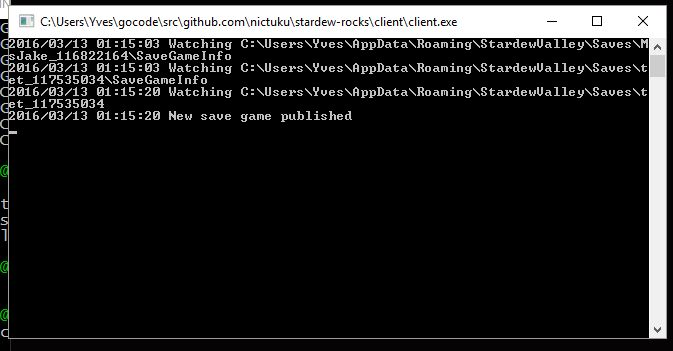
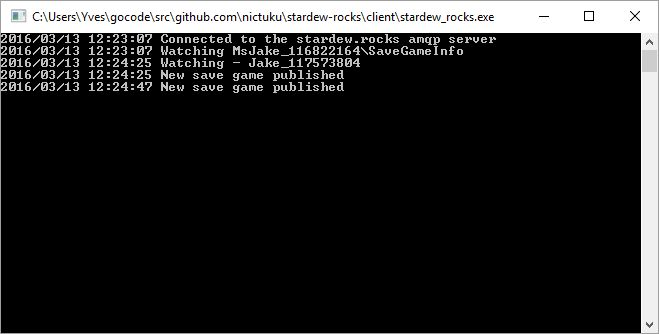
Updated README and screenshot

Changed region(s): [[0.0, 0.0, 1.0, 1.0]]

diff --git a/README.md b/README.md
@@ -1,6 +1,6 @@
 # stardew-rocks
 
-This provides a client for Windows sends Stardew Valley saved games to a fanout queue. 
+Stardew Rocks is a tool for Stardew Valley that sends saved games to a distributed queue of mod developers! 
 
 Developers can watch that queue and do cool things with the saved files.
 
@@ -9,24 +9,37 @@ For example:
 - analyze the most efficient players
 - host a Stardew Valley tourney: see who get a certain amount of resources faster without cheating!
 
-To give it a try, see the pre-compiled Windows amd64 binary in the Releases section. Download the .exe file and run it.
+# For Farmers
 
-It looks a bit like this:
+You can install the Stardew Rocks client and help the community! Download links:
 
-`screenshot here soon`
+ - [Windows 64-bit](https://github.com/nictuku/stardew-rocks/releases/download/v0.1/stardew_rocks.exe)
+ - Windows 32-bit - coming soon.
 
-Please leave this window open in the background while you're playing Stardew Valley. If that's working well then mod
-developers can see whenever your save file changes and they can build very cool stuff with everyone's information!
+Just download the .exe file and run it. Once running it will look a bit like this:
+
+![Screenshot](client/screenshot.jpg)
+
+Please leave this window open in the background while you're playing Stardew Valley. You can minimize it, but don't close it. 
+This will allow mod developers to see whenever your save file changes. Hopefully they will build very cool stuff with that!
+
+There are also pre-compiled binaries for older releases in the Releases section.
 
 # For Developers
 
-We currently publish the following topics:
+The ampq URL is: amqp://guest:guest@amqp.stardew.rocks:5672/
 
- - topic "SaveGameInfo-1" receives raw uncompressed XML files with contributors' SaveGameInfo.
+We currently publish the following exchanges:
+
+ - "SaveGameInfo-1" receives raw uncompressed XML files with contributors' SaveGameInfo.
+ 
+ Soon: sample ampq code!
 
 # Known limitations
 
 For now we only publish the raw XML file of the SaveGameInfo file. 
 
-# Future versions
+# Planned features
 
+- Complete game information dumps (allows full game backup, server-side screenshots and more!)
+- Authentication of some fashion
